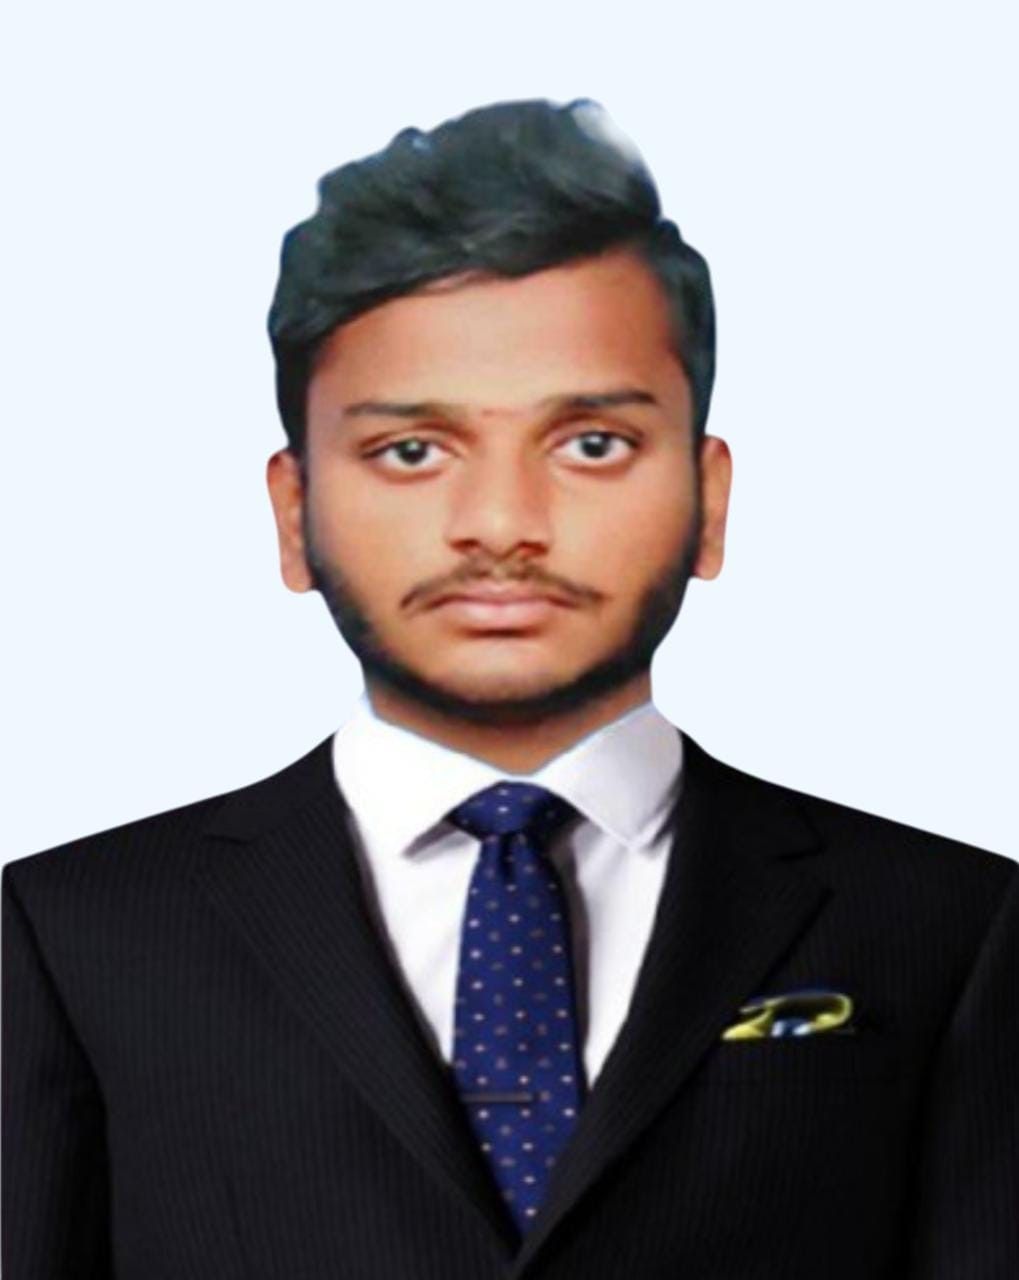
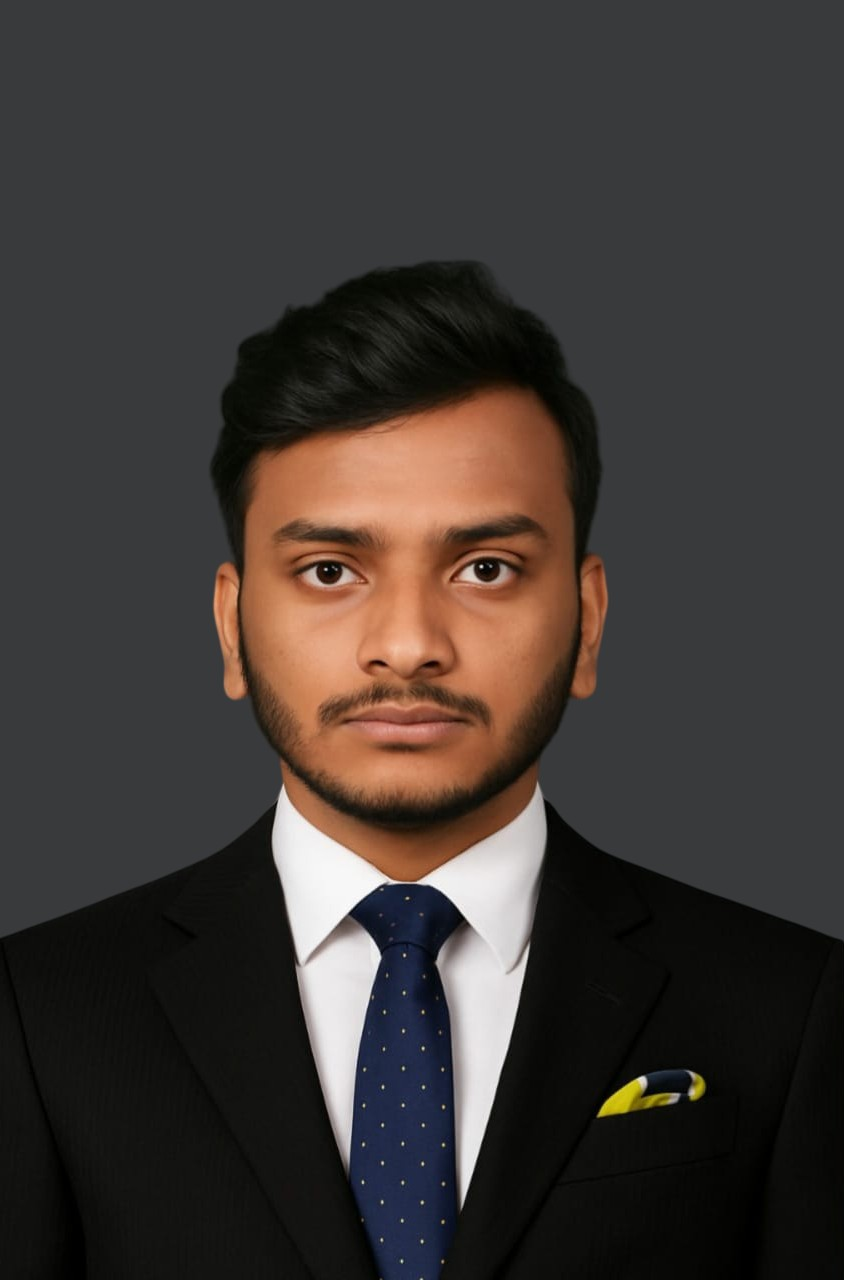
kaviyafounder

diff --git a/src/Components/CEOFounder.css b/src/Components/CEOFounder.css
@@ -1,4 +1,4 @@
-.ceo-intro-container {
+/* .ceo-intro-container {
     background: #fff;
     padding: 0rem;
     text-align: left;
@@ -6,7 +6,7 @@
   .logo-with-name {
     display: flex;
     align-items: center;
-    gap: 0.05rem; /* space between logo and name */
+    gap: 0.05rem; 
     margin-bottom: 0.5rem;
   }
   .company-logo {
@@ -141,13 +141,12 @@
     position: absolute;
     top: 170px;
     left: -118px;
-    background-color: #0d47a1; /*#f57c00*/
+    background-color: #0d47a1; 
     color: white;
     padding: 6px 40px;
     font-size: 1.3rem;
     font-weight: 600;
     border-radius: 6px;
-    /* box-shadow: 0 2px 6px rgba(0,0,0,0.2); */
     z-index: 2;
     letter-spacing: 1px;
   }
@@ -179,16 +178,7 @@
     border-radius: 6px;
     letter-spacing: 1px;
   }
-  
-  /* .card-text {
-    margin-top: 0.5rem;
-  }
 
-  .card-name {
-    font-size: 1.25rem;
-    font-weight: 600;
-    margin-left: -210px;
-  } */
 
   .card-text {
     display: flex;
@@ -228,4 +218,238 @@
     .section-title {
       justify-content: center;
     }
+} */
+
+.ceo-intro-container {
+  background: #fff;
+  padding: 0rem;
+  text-align: left;
+}
+.logo-with-name {
+  display: flex;
+  align-items: center;
+  gap: 0.05rem; /* space between logo and name */
+  margin-bottom: 0.5rem;
+}
+.company-logo {
+  height: 60px;
+  width: auto;
+}
+
+.company-name {
+  font-size: 40px;          
+  font-weight: 600;          
+  color: #0d47a1;; 
+  padding: 1rem;          
+  margin-bottom: 0px;
+  letter-spacing: 1px;
+}
+
+.section-title {
+  font-size: 2.3rem;
+  font-weight: bold;
+  margin-bottom: 0rem;
+  text-align: left; 
+  line-height: 3rem;
+}
+
+.highlight-orange {
+  color: #0d47a1; 
+  margin-bottom: 0rem;
+}
+
+.highlight-blue {
+  color: #f57c00;
+}
+
+.intro-description {
+  font-size: 1rem;
+  color: #555;
+  margin: 1rem;
+  padding-left: 10rem;
+  padding-right: 10rem;
+}
+
+.ceo-intro-wrapper {
+  display: flex;
+  flex-direction: column;
+  gap: 2rem;
+}
+
+.card-section {
+  position: relative;
+  width: fit-content;
+  margin: 0 auto; 
+}
+
+.ceo-card,
+.director-card {
+  border: none;
+  border-radius: 0;
+  box-shadow: none;
+  overflow: visible;
+}
+
+.card-image-container {
+  position: relative;
+}
+
+.card-image {
+  /* width: 30px; */
+  /* object-fit: contain; */
+  padding-top: 30px;
+}
+
+
+.ceo-card .card-image {
+  height: 380px;
+}
+
+.director-card .card-image {
+  width:370px;
+  height: 340px;
+  margin-top: -90px;
+  margin-left: -140px;
+  margin-bottom: 50px;
+}
+.director-image-angle {
+  margin-left: 50rem; 
+}
+
+
+.director-image-angle .card-image {
+  clip-path: polygon(20% 15%, 100% 15%, 80% 100%, 0 100%);
+}
+
+.card-label {
+  position: absolute;
+  font-weight: bold;
+  color: #fff;
+  padding: 0.25rem 1rem;
+  font-size: 14px;
+}
+
+.ceo-label {
+  bottom: 10px;
+  left: 10px;
+  background-color: #f57c00;
+}
+.ceo-intro-header-wrapper {
+  display: flex;
+  align-items: center;
+  justify-content: space-between;
+  gap: 2rem;
+  margin-top: 2rem;
+  flex-wrap: wrap;
+  margin-top:10px;
+  padding-top: 0px;
+}
+.ceo-intro-heading-block {
+  margin-top: 0;
+  padding-top: 0;
+  padding-left: 5rem;
+}
+.ceo-image-angle {
+  flex: 1;
+  margin-left: 20rem;
+  min-width: 280px;
+}
+@media (min-width: 768px) {
+  .ceo-image-angle {
+    margin-left: 24rem;
+  }
+}
+
+.ceo-label-left {
+  position: absolute;
+  top: 185px;
+  left: -172px;
+  background-color: #0d47a1; 
+  color: white;
+  padding: 6px 40px;
+  font-size: 1.3rem;
+  font-weight: 600;
+  border-radius: 6px;
+  /* box-shadow: 0 2px 6px rgba(0,0,0,0.2); */
+  z-index: 2;
+  letter-spacing: 1px;
+}
+
+.angled-image {
+  width: 350px; 
+  height: 370px;
+  padding-top: 40px;
+}
+
+
+.angled-image-wrapper{
+  position: relative;
+  bottom: 10px;
+  width:100px;
+}
+
+.ceo-image-angle .angled-image-wrapper img {
+  clip-path: polygon(20% 15%, 100% 15%, 80% 100%, 0 100%);
+}
+
+.director-label {
+  top: 85px;
+  left: -270px;
+  background-color: #0d47a1;
+  color: white;
+  padding: 6px 30px;
+  font-size: 1.3rem;
+  font-weight: 600;
+  border-radius: 6px;
+  letter-spacing: 1px;
+}
+
+/* .card-text {
+  margin-top: 0.5rem;
+}
+
+.card-name {
+  font-size: 1.25rem;
+  font-weight: 600;
+  margin-left: -210px;
+} */
+
+.card-text {
+  display: flex;
+  flex-direction: column;
+  align-items: flex-start;
+  padding-top: 4px; 
+  margin-top: 0;     
+}
+
+.card-label.ceo-label-left {
+  margin-bottom: 2px;
+}
+
+.card-name {
+  font-size: 1.45rem;
+  font-weight: 600;
+  margin-top: -135px;
+  margin-left: -110px;
+}
+
+.card-names{
+  font-size: 1.45rem;
+  font-weight: 600;
+  margin-top: -165px;
+  margin-left: -266px;
+}  
+
+@media (max-width: 768px) {
+  .ceo-intro-header-wrapper {
+    flex-direction: column;
+    text-align: center;
+  }
+  .ceo-intro-heading-block {
+    text-align: center;
+  }
+
+  .section-title {
+    justify-content: center;
+  }
 }

diff --git a/src/Components/TeamProfiles.jsx b/src/Components/TeamProfiles.jsx
@@ -2,9 +2,9 @@ import React from 'react';
 import TeamProfileCard from './TeamProfileCard'; 
 import './TeamProfiles.css';
 import vishnuImage from '../assets/vishnu.jpg';
-import bharaniImage from '../assets/bharani.jpg';
-import vijayImage from '../assets/vijay2.jpg';
-import kaviyaImage from '../assets/kaviyagrey1.png';
+import bharaniImage from '../assets/bharani1.jpg';
+import vijayImage from '../assets/vijay.jpg';
+import kaviyaImage from '../assets/kaviyagrey3.jpg';
 import fasilImage from '../assets/fasil.jpg';
 import dheenaImage from '../assets/dheena.jpg';
 import giriImage from '../assets/Giri1.jpg';
